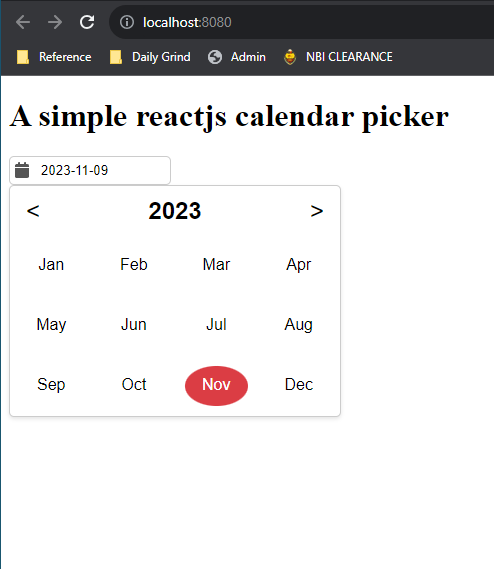
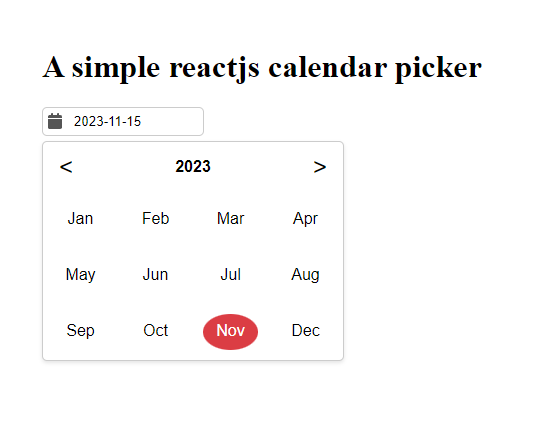
CSS updates and images

diff --git a/src/components/common/trend-calendar/style.module.css b/src/components/common/trend-calendar/style.module.css
@@ -1,13 +1,14 @@
 /* Calendar Component Styles */
 
 .calendar {
-  width: 330px;
+  width: 300px;
   height: auto;
   background-color: #fff;
   border: 1px solid #ccc;
   border-radius: 5px;
   box-shadow: 0 2px 4px rgba(0, 0, 0, 0.1);
   font-family: Arial, sans-serif;
+  margin-top: 5px;
 }
 
 .calendar_header {
@@ -21,7 +22,7 @@
 
 .calendar_header h3 {
   margin: 0;
-  font-size: 1.5rem;
+  font-size: 1rem;
   cursor: pointer;
 }
 
@@ -54,7 +55,7 @@
 
 
 .calendar_cell {
-  padding: 10px;
+  padding: 8px;
   text-align: center;
   font-size: 1rem;
   height: 20px;
@@ -91,5 +92,32 @@
 
 .calendar_cell.current_date:hover > span {
   color: #ffffff;
+}
+
+@media (max-width: 450px) {
+  /* Your mobile-specific CSS styles go here */
+  .calendar {
+    width: 100%;
+    height: auto;
+    background-color: #fff;
+    border: 1px solid #ccc;
+    border-radius: 5px;
+    box-shadow: 0 2px 4px rgba(0, 0, 0, 0.1);
+    font-family: Arial, sans-serif;
+  }
+
+  .calendar_cell {
+    padding: 5px;
+    text-align: center;
+    font-size: 1rem;
+    height: 20px;
+    border-radius: 50%;
+  }
+
+  .calendar_header h3 {
+    margin: 0;
+    font-size: 1rem;
+    cursor: pointer;
+  }
 }
 

diff --git a/src/components/common/input-calendar/index.jsx b/src/components/common/input-calendar/index.jsx
@@ -32,9 +32,7 @@ const CalendarInput = () => {
           <FontAwesomeIcon icon={faCalendar} className={styles.calendar_icon} />
           <input type="text" placeholder="Select a date" value={selectedDate} onChange={handleDateInput} onClick={() => setShowCalendar(!showCalendar)} onKeyDown={handleKeyEnter} />
         </div>
-        <div className='calendar-container'>
-          {showCalendar && <TrendCalendar onChange={handleOnChange} date={selectedDate} />}
-        </div>
+        {showCalendar && <TrendCalendar onChange={handleOnChange} date={selectedDate} />}
       </div>
     </>
   );

diff --git a/src/components/common/input-calendar/style.module.css b/src/components/common/input-calendar/style.module.css
@@ -16,5 +16,22 @@
 
 .calendar_icon {
   margin-right: 10px;
-  color: #555; /* Customize the color as needed */
+  color: #555;
 }
+
+/* Common styles for all devices */
+
+/* Styles for screens with a maximum width of 768px (typical for mobile devices) */
+@media (max-width: 450px) {
+  /* Your mobile-specific CSS styles go here */
+  .input_container {
+    display: flex;
+    align-items: center;
+    border: 1px solid #ccc;
+    padding: 5px;
+    border-radius: 5px;
+    width: 100%;
+  }
+}
+
+

diff --git a/src/App.module.css b/src/App.module.css
@@ -1,0 +1,7 @@
+.container {
+  width: 100%; /* Adjust the width as needed */
+  max-width: 1200px; /* Set a maximum width to limit container size */
+  margin: 0 auto; /* Center the container horizontally */
+  padding: 20px; /* Add padding to the container for spacing */
+  box-sizing: border-box; /* Include padding and border in the total width */
+}

diff --git a/public/index.html b/public/index.html
@@ -2,7 +2,8 @@
 <html lang="en">
   <head>
     <meta charset="UTF-8">
-    <title>My React App</title>
+    <meta name="viewport" content="width=device-width, initial-scale=1">
+    <title>Trend Micro React Calendar App</title>
   </head>
   <body>
     <div id="root"></div>

diff --git a/src/App.js b/src/App.js
@@ -4,7 +4,7 @@ import CalendarInput from './components/common/input-calendar'
 
 function App () {
   return (
-    <div className={styles.app}>
+    <div className={styles.container}>
       <h1>A simple reactjs calendar picker</h1>
       <CalendarInput/>
     </div>
